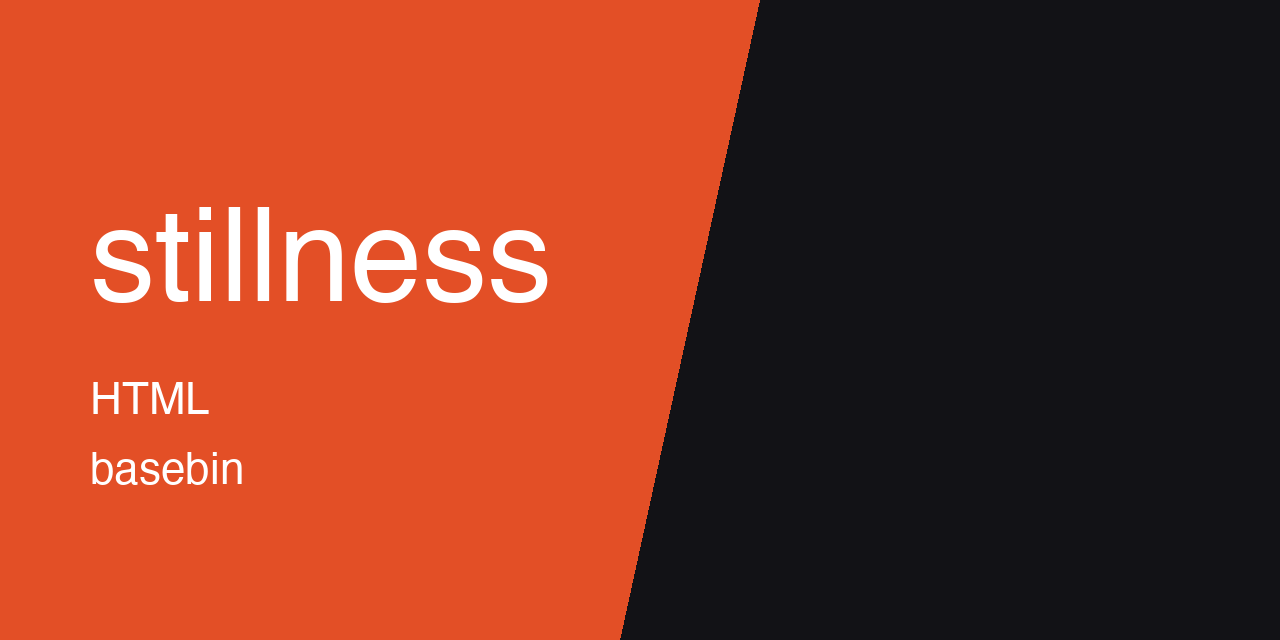
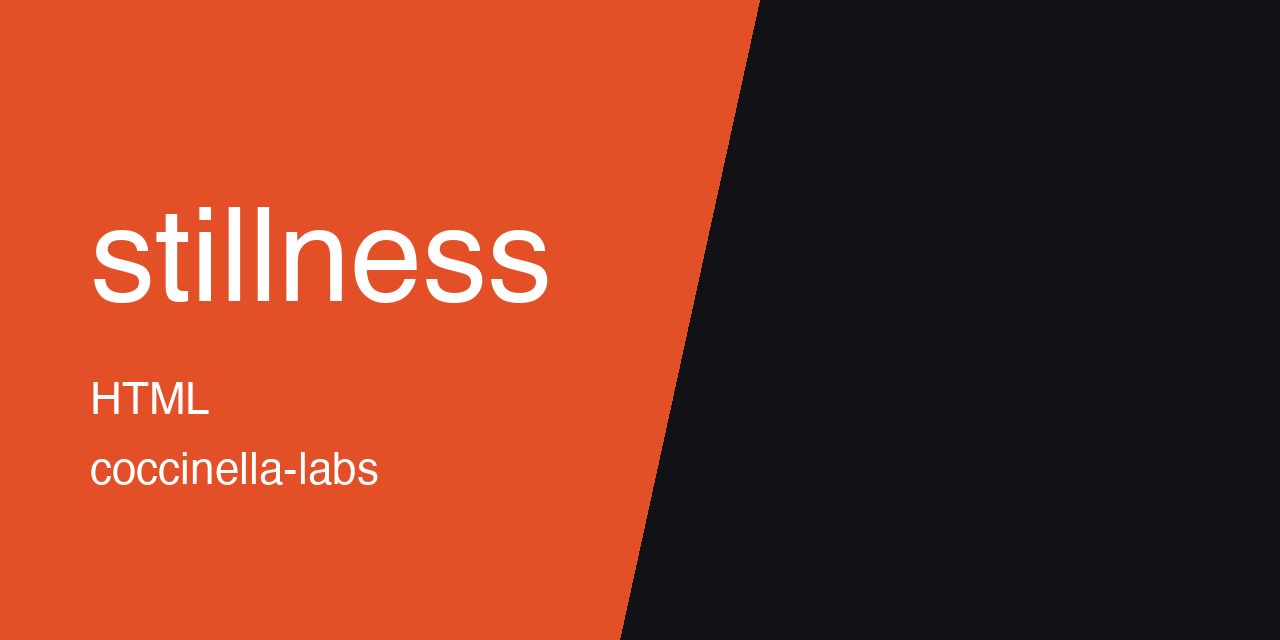
[docs] move thumbnail to coccinella-labs

Changed region(s): [[0.0625, 0.7188, 0.3125, 0.7812]]

diff --git a/README.md b/README.md
@@ -1,5 +1,5 @@
 <p align="center">
-  <img src="https://raw.githubusercontent.com/basebin/stillness/main/.github/assets/thumbnail.png" alt="stillness" width="100%">
+  <img src="https://raw.githubusercontent.com/Coccinella-Labs/stillness/main/.github/assets/thumbnail.png" alt="stillness" width="100%">
 </p>
 
 # stillness
